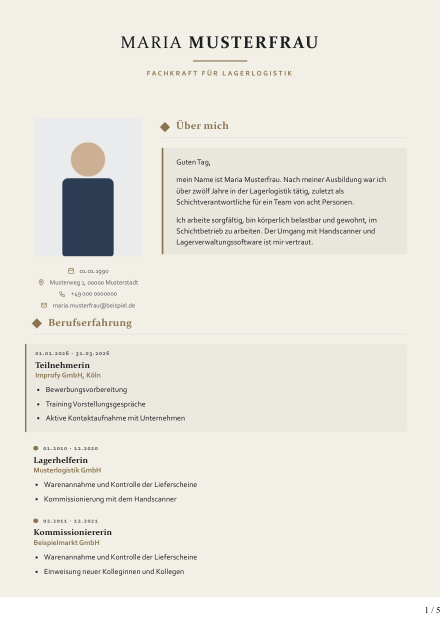
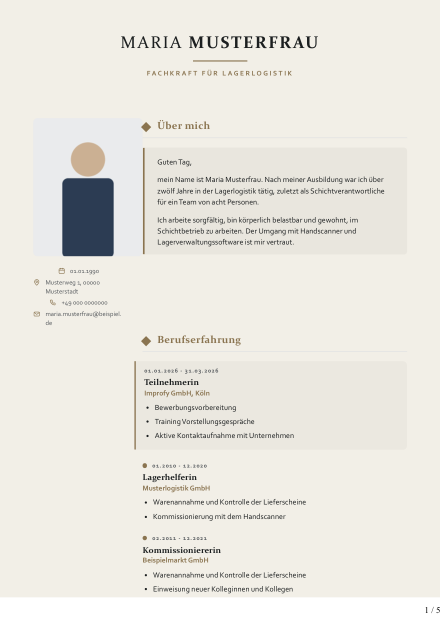
Eine linke Kante auf jeder Seite - auch wo kein Foto steht
Vorher lag die Fotospalte nur dort, wo ein Foto war. Kapitel ohne Foto liefen ueber die
volle Breite, Kapitel mit Foto begannen 61 mm weiter rechts - auf einer Seite zwei
verschiedene Textkanten. Genau das liest ein Recruiter als "nicht gesetzt".

Jetzt hat jedes Kapitel dieselbe Spalte. Wo ein Foto ist, steht es darin; wo keines ist,
bleibt sie leer. Nachgemessen am fertigen PDF: jede Ueberschrift auf jeder Seite bei
derselben x-Koordinate (193 pt, bei der Kopfform mit Randspalte 244 pt).

**Der eigentliche Fehler war das Tabellenlayout.** Beim automatischen Layout rechnet der
Browser die Spaltenbreite aus dem Inhalt - eine **leere** Fotozelle schrumpft, und der
Text daneben rueckt nach links. Gemessen: Kapitel mit Foto bei 218 pt, Kapitel ohne bei
193 pt. `table-layout: fixed` haelt die angegebene Breite auch bei leerer Zelle.

Der Preis ist ein weisser Streifen auf den Seiten ohne Foto. Bewusster Tausch: ein
breiter ruhiger Rand ist im Druck normal, zwei wandernde Textkanten sind es nie.

**Eine Pruefung, die ich wieder ausgebaut habe.** Ich wollte die Kante am PDF messen -
erst ueber die Ueberschriften, dann ueber die haeufigste Kante. Beide Male Fehlalarme:
Seite 1 hat mit der Kontaktspalte eine zweite, gewollte Kante. Eine Pruefung, die grundlos
rot wird, erzieht dazu, Rot zu ignorieren. Gesichert wird jetzt die Ursache statt der
Wirkung - vier Pruefungen an der Vorlage: feste Spaltenbreite, jede Kapitelreihe
[…]

diff --git a/templates/cv_designs/cv_skin.html b/templates/cv_designs/cv_skin.html
@@ -142,9 +142,12 @@ body { background: var(--farbe2); }
 
 /* ---------------------------------------------------- Foto, Kontakt, Inhalt */
 /* Zwei echte Spalten statt Float und Textumfluss - siehe Kopf dieser Datei. */
-table.kopfreihe { width: 100%; border-collapse: collapse; margin-bottom: 2mm; }
+table.kopfreihe { width: 100%; border-collapse: collapse; table-layout: fixed;
+                  margin-bottom: 2mm; }
 table.kopfreihe > tbody > tr > td { padding: 0; vertical-align: top; }
-/* Eine Zahl fuer beide Fotospalten: Kopf und Folgekapitel muessen dieselbe Kante haben.
+/* Eine Zahl fuer **alle** Spalten: Kopf und jedes Kapitel haben dieselbe Kante, auch
+   wenn kein Foto darin steht. Zwei wandernde Textkanten auf einer Seite lesen sich als
+   "nicht gesetzt"; ein breiter ruhiger Rand ist im Druck normal.
    Bei der Kopfform mit Randspalte frisst die Spalte schon 44 mm vom Blatt - dort bleibt
    fuer den Text sonst zu wenig, und der Satz wird hoch. Deshalb dort schmaler. */
 td.links { width: {{ '42mm' if skin.kopfform == 'links' else '52mm' }};
@@ -153,7 +156,12 @@ td.links { width: {{ '42mm' if skin.kopfform == 'links' else '52mm' }};
    Breite, gleiche Kante. Vorher standen sie rechts und wechselten von Seite zu Seite die
    Seite; das sah aus, als haette jede Seite ein anderer gesetzt. Wieder eine Tabelle und
    kein Float: Ein Float laesst nur den Text ausweichen, nicht den Kasten. */
-table.fotoreihe { width: 100%; border-collapse: collapse; }
+/* `table-layout: fixed` ist hier Pflicht, nicht Geschmack: Beim automatischen Layout
+   rechnet der Browser die Spaltenbreite aus dem Inhalt - eine **leere** Fotozelle
+   schrumpft dann, und der Text daneben rueckt nach links. Gemessen: Kapitel mit Foto
+   begannen bei 218 pt, Kapitel ohne bei 193 pt. Genau die wandernde Kante, die weg
+   sollte. Fest gerechnet gilt die angegebene Breite immer. */
+table.fotoreihe { width: 100%; border-collapse: collapse; table-layout: fixed; }
 table.fotoreihe > tbody > tr > td { padding: 0; vertical-align: top; }
 .seitenfoto { display: block; width: {{ '42mm' if skin.kopfform == 'links' else '52mm' }};
               aspect-ratio: 3 / 4; object-fit: cover;
@@ -415,11 +423,9 @@ li { margin-bottom: 1.4mm; }
 </tr></table>
 
     {% if beruf %}
-    {% if weitere.beruf %}
     <table class="fotoreihe"><tr>
-      <td class="links"><img class="seitenfoto" src="{{ weitere.beruf }}" alt=""></td>
+      <td class="links">{% if weitere.beruf %}<img class="seitenfoto" src="{{ weitere.beruf }}" alt="">{% endif %}</td>
       <td>
-    {% endif %}
     <section class="kapitel">
       <h2>Berufserfahrung</h2>
       {% for b in beruf %}
@@ -434,15 +440,13 @@ li { margin-bottom: 1.4mm; }
       </div>
       {% endfor %}
     </section>
-    {% if weitere.beruf %}</td></tr></table>{% endif %}
+    </td></tr></table>
     {% endif %}
 
     {% if d.bildung %}
-    {% if weitere.bildung %}
     <table class="fotoreihe"><tr>
-      <td class="links"><img class="seitenfoto" src="{{ weitere.bildung }}" alt=""></td>
+      <td class="links">{% if weitere.bildung %}<img class="seitenfoto" src="{{ weitere.bildung }}" alt="">{% endif %}</td>
       <td>
-    {% endif %}
     <section class="kapitel">
       <h2>Schulbildung</h2>
       {% for b in d.bildung %}
@@ -454,16 +458,14 @@ li { margin-bottom: 1.4mm; }
       </div>
       {% endfor %}
     </section>
-    {% if weitere.bildung %}</td></tr></table>{% endif %}
+    </td></tr></table>
     {% endif %}
 
     {% set fs = d.fuehrerschein or {} %}
     {% if d.soft_skills or d.edv_kenntnisse or d.sprachen or d.zusatzqualifikationen or fs.vorhanden %}
-    {% if weitere.quali %}
     <table class="fotoreihe"><tr>
-      <td class="links"><img class="seitenfoto" src="{{ weitere.quali }}" alt=""></td>
+      <td class="links">{% if weitere.quali %}<img class="seitenfoto" src="{{ weitere.quali }}" alt="">{% endif %}</td>
       <td>
-    {% endif %}
     <section class="kapitel">
       <h2>Persönliche Qualifikation</h2>
 
@@ -524,7 +526,7 @@ li { margin-bottom: 1.4mm; }
         {% endif %}
       </div>
     </section>
-    {% if weitere.quali %}</td></tr></table>{% endif %}
+    </td></tr></table>
     {% endif %}
 </div>
 </td></tr></tbody>

diff --git a/lebenslauf_test.py b/lebenslauf_test.py
@@ -375,6 +375,33 @@ def main():
            _r.status_code == 200 and "Eingang" in _r.get_data(as_text=True),
            _r.status_code)
 
+    print("\n12. Durchgehende linke Kante")
+    _skin = offen(os.path.join("templates", "cv_designs", "cv_skin.html"))
+    # Eine leere Tabellenzelle schrumpft beim automatischen Layout - dann rueckt das
+    # naechste Kapitel nach links und die Kante wandert von Seite zu Seite. Nur
+    # `table-layout: fixed` haelt die angegebene Breite auch bei leerer Zelle.
+    pruefe("Beide Spaltentabellen rechnen mit fester Breite",
+           _skin.count("table-layout: fixed") >= 2,
+           _skin.count("table-layout: fixed"))
+    # Die Fotospalte muss in jedem Kapitel stehen, auch ohne Bild - sonst hat eine Seite
+    # zwei verschiedene Textkanten.
+    pruefe("Jedes Kapitel steht in einer Spaltenreihe",
+           _skin.count('<table class="fotoreihe">') == 3,
+           _skin.count('<table class="fotoreihe">'))
+    # Entscheidend ist, was **vor** der Reihe steht: Ein `{% if weitere.x %}` davor
+    # wuerde die ganze Spalte wegfallen lassen, sobald kein Foto da ist. Innerhalb der
+    # Zelle ist dieselbe Bedingung richtig - dort schuetzt sie nur das Bild.
+    _davor = [teil[-140:] for teil in _skin.split('<table class="fotoreihe">')[:-1]]
+    pruefe("Die Spaltenreihe haengt nicht am Vorhandensein eines Fotos",
+           all("{% if weitere." not in t for t in _davor),
+           [t.strip()[-46:] for t in _davor if "{% if weitere." in t])
+    # Kopf- und Kapitelspalte muessen dieselbe Breite haben, sonst stimmt die Kante nicht.
+    import re as _re2
+    _breiten = set(_re2.findall(r"width: \{\{ '(\d+mm)' if skin\.kopfform == 'links'"
+                                r" else '(\d+mm)' \}\}", _skin))
+    pruefe("Fotospalte und Foto sind ueberall gleich breit",
+           len(_breiten) == 1, sorted(_breiten))
+
     fehl = [n for n, ok in ergebnis if not ok]
     print(f"\n{len(ergebnis) - len(fehl)} von {len(ergebnis)} Prüfungen bestanden.")
     if fehl:

diff --git a/seitenpruefung.py b/seitenpruefung.py
@@ -13,6 +13,13 @@ Was hier geprüft wird, ist die Richtlinie, an der sich jede Vorlage messen lass
   Text       Keine zwei Textblöcke liegen übereinander.
   Formen     Keine farbige Fläche ragt **teilweise** in einen Textblock.
 
+Was hier **nicht** geprüft wird: ob der Inhalt auf jeder Seite an derselben Kante
+beginnt. Ich habe es versucht – über die Überschriften und über die häufigste Kante –
+und beide Male Fehlalarme bekommen: Seite 1 hat mit der Kontaktspalte eine zweite,
+gewollte Kante. Eine Prüfung, die grundlos rot wird, erzieht dazu, Rot zu ignorieren.
+Die Kante ist stattdessen im Aufbau festgeschrieben (`table-layout: fixed` mit fester
+Spaltenbreite) und wird dort geprüft, wo sie entsteht: in `lebenslauf_test.py`.
+
 Die dritte Regel braucht eine Unterscheidung, sonst schlägt sie bei jedem farbigen
 Kopfband an: Ein Hintergrund umschließt seinen Text **ganz** (weiße Schrift auf grünem
 Band). Eine Form, die nur eine Ecke eines Wortes berührt, ist dagegen immer ein Unfall –
